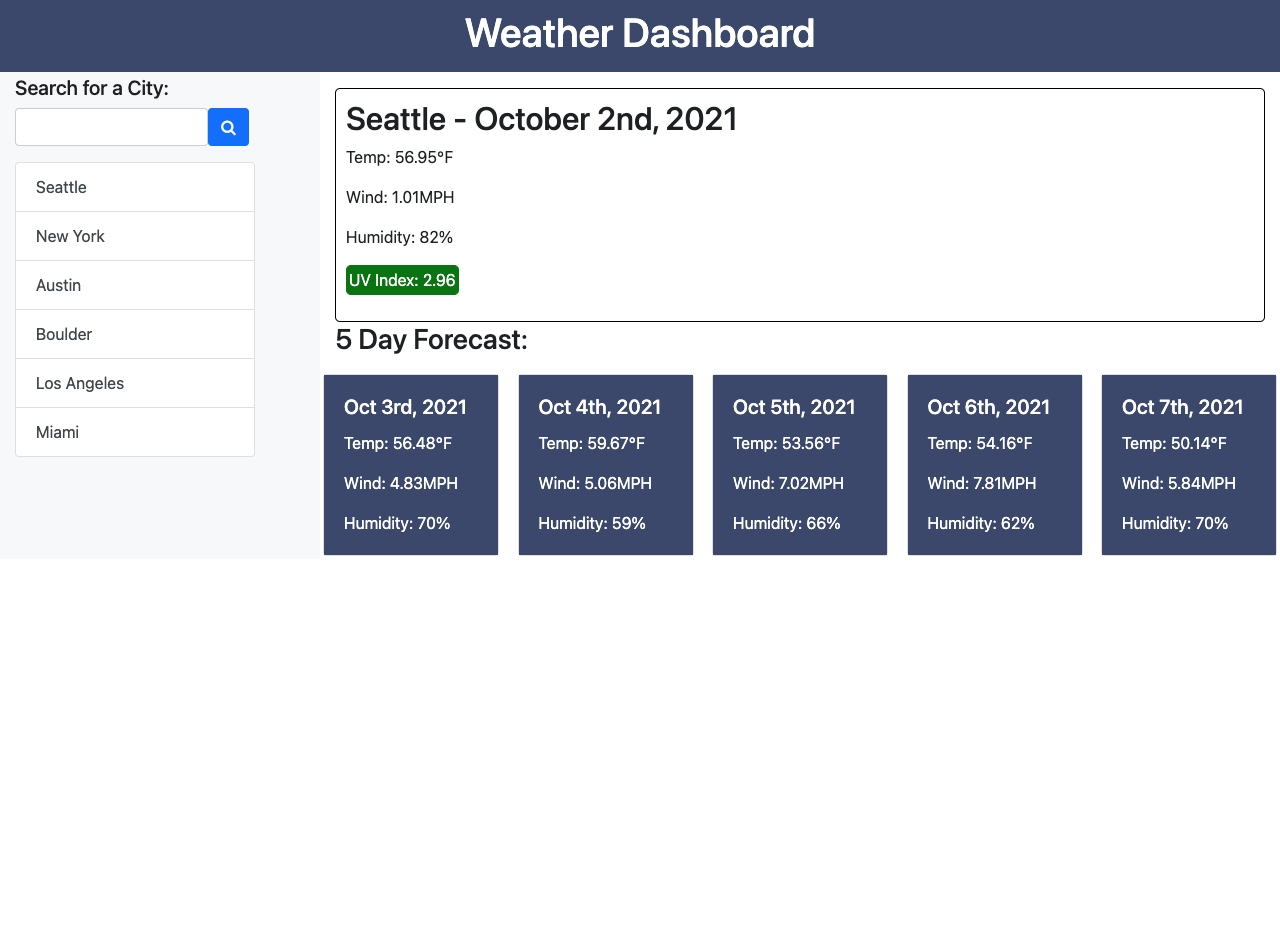
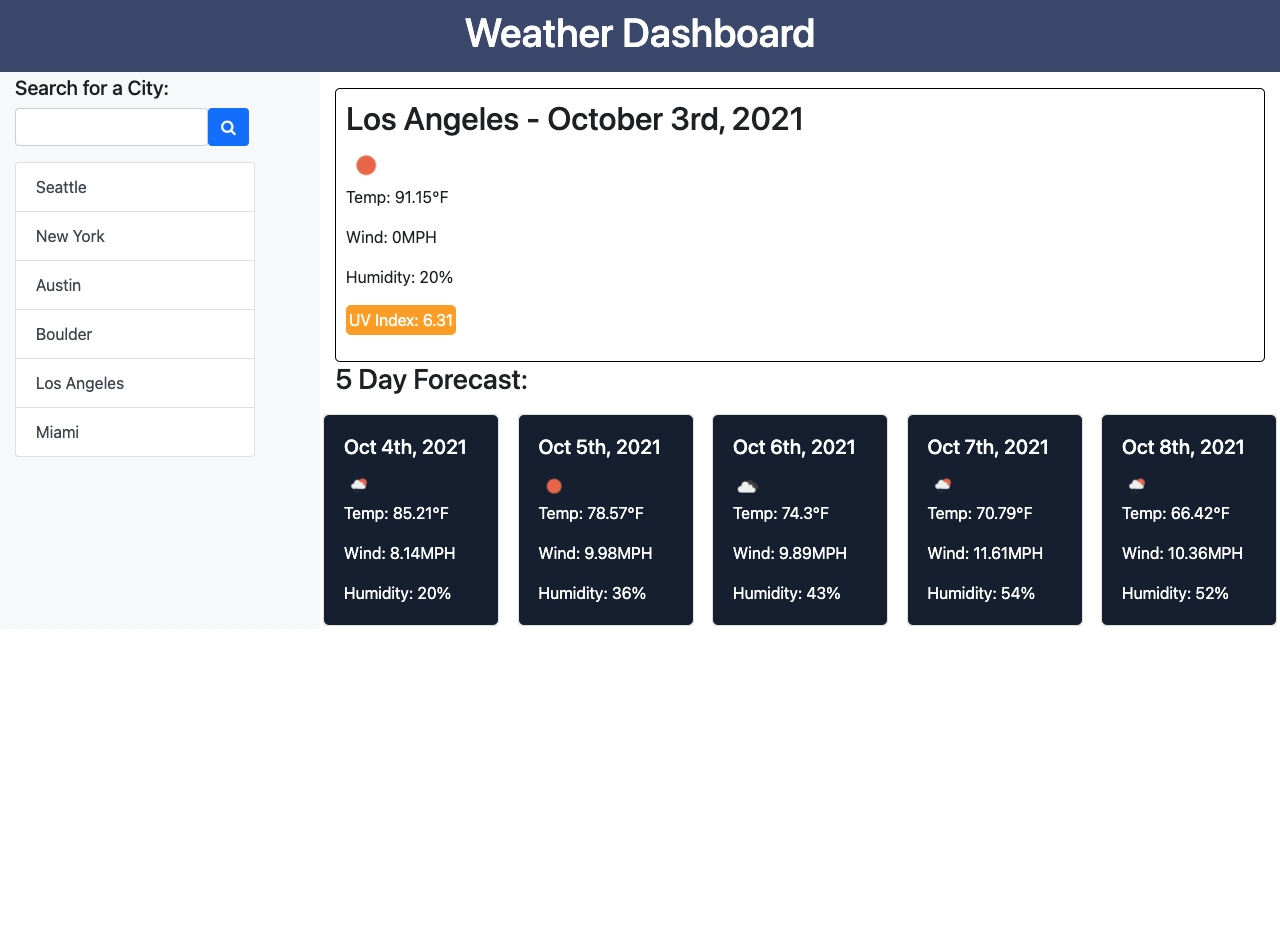
readme mock-up update

Changed region(s): [[0.25, 0.2442, 1.0, 0.6716], [0.2812, 0.0916, 0.625, 0.2137]]

diff --git a/assets/style.css b/assets/style.css
@@ -21,7 +21,6 @@ header {
 }
 
 .low-index {
-    border: 1px solid green;
     background-color: green;
     color:white;
     border-radius: 5px;
@@ -30,7 +29,6 @@ header {
 }
 
 .moderate-index {
-    border: 1px solid yellow;
     background-color: yellow;
     border-radius: 5px;
     width:fit-content;
@@ -38,7 +36,6 @@ header {
 }
 
 .high-index {
-    border: 1px solid orange;
     width:fit-content;
     background-color: orange;
     color:white;
@@ -47,7 +44,6 @@ header {
 }
 
 .very-high-index {
-    border: 1px solid red;
     color:white;
     background-color: red;
     border-radius: 5px;
@@ -56,7 +52,6 @@ header {
 }
 
 .extreme-index {
-    border: 1px solid purple;
     background-color: purple;
     color:white;
     border-radius: 5px;

diff --git a/assets/script.js b/assets/script.js
@@ -29,7 +29,6 @@ function weatherSearch(input) {
     fetch(APIurl)
     .then(response => {return response.json()})
     .then(data => {
-        console.log(data)
         var cityname,temp,wind,humidity,icon;
         cityname = $("<h2>").addClass("city-name").text(data.name+"  -  "+today);
         var iconLink = "http://openweathermap.org/img/wn/"+data.weather[0].icon+"@2x.png";
@@ -55,7 +54,6 @@ function forecastSearch(lat,lon) {
     fetch(APIurl)
     .then(response => {return response.json()})
     .then(data => {
-        console.log(data)
         var uvIndex = data.current.uvi;
         var uvIndexEl = $("<p>").text("UV Index: " + uvIndex);
         if (uvIndex < 3) {
